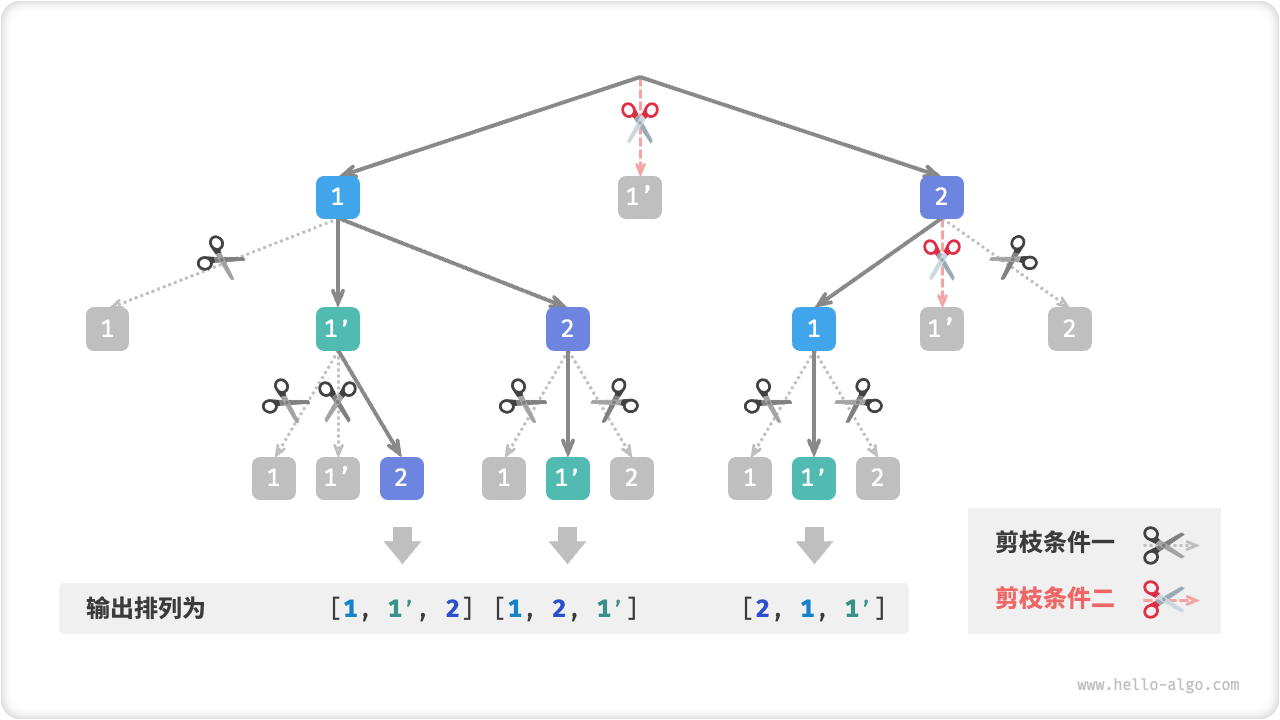
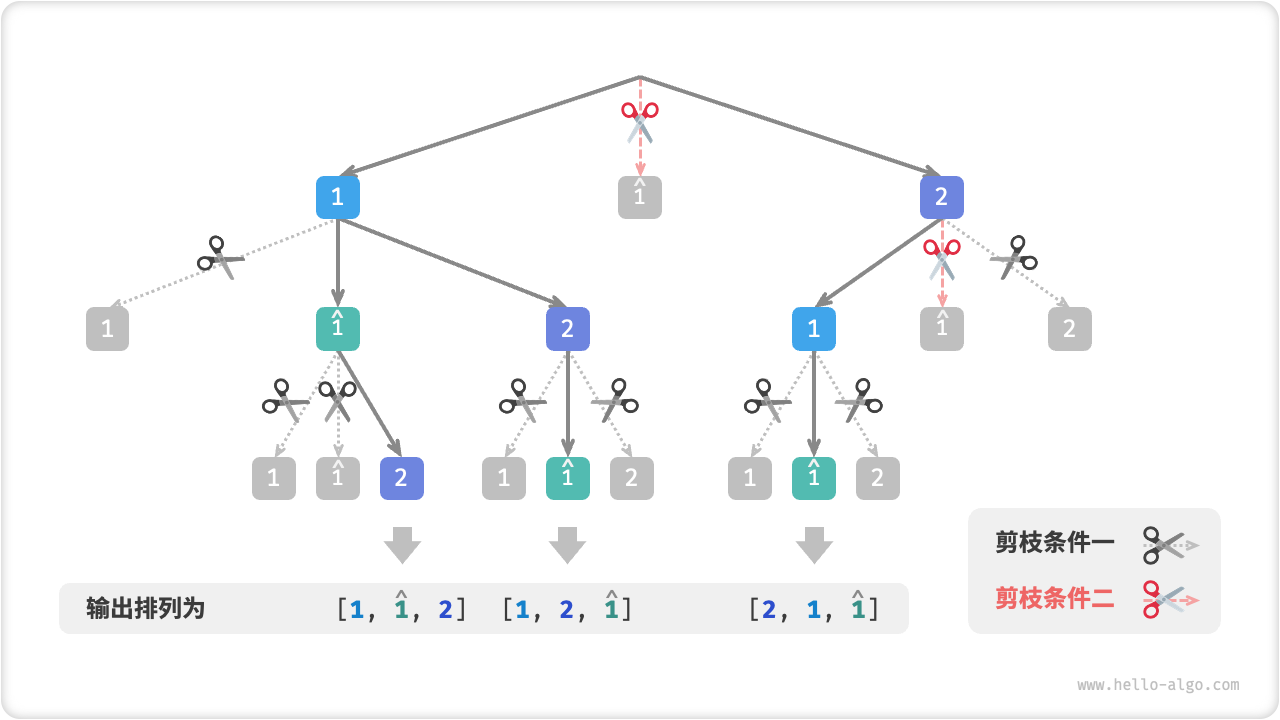
Prepare 1.0.0b3 release

diff --git a/docs/chapter_backtracking/backtracking_algorithm.md b/docs/chapter_backtracking/backtracking_algorithm.md
@@ -272,24 +272,232 @@
 
 设 `state` 为问题的当前状态，`choices` 表示当前状态下可以做出的选择，则可得到以下回溯算法的框架代码。
 
-```python
-def backtrack(state, choices, res):
-    """回溯算法框架"""
-    # 判断是否为解
-    if is_solution(state):
-        # 记录解
-        record_solution(state, res)
-        return
-    # 遍历所有选择
-    for choice in choices:
-        # 剪枝：判断选择是否合法
-        if is_valid(state, choice):
-            # 尝试：做出选择，更新状态
-            make_choice(state, choice)
-            backtrack(state, choices, res)
-            # 回退：撤销选择，恢复到之前的状态
-            undo_choice(state, choice)
-```
+=== "Java"
+
+    ```java title=""
+    /* 回溯算法框架 */
+    void backtrack(State state, List<Choice> choices, List<State> res) {
+        // 判断是否为解
+        if (isSolution(state)) {
+            // 记录解
+            recordSolution(state, res);
+            return;
+        }
+        // 遍历所有选择
+        for (Choice choice : choices) {
+            // 剪枝：判断选择是否合法
+            if (isValid(state, choice)) {
+                // 尝试：做出选择，更新状态
+                makeChoice(state, choice);
+                backtrack(state, choices, res);
+                // 回退：撤销选择，恢复到之前的状态
+                undoChoice(state, choice);
+            }
+        }
+    }
+    ```
+
+=== "C++"
+
+    ```cpp title=""
+    /* 回溯算法框架 */
+    void backtrack(State *state, vector<Choice *> &choices, vector<State *> &res) {
+        // 判断是否为解
+        if (isSolution(state)) {
+            // 记录解
+            recordSolution(state, res);
+            return;
+        }
+        // 遍历所有选择
+        for (Choice choice : choices) {
+            // 剪枝：判断选择是否合法
+            if (isValid(state, choice)) {
+                // 尝试：做出选择，更新状态
+                makeChoice(state, choice);
+                backtrack(state, choices, res);
+                // 回退：撤销选择，恢复到之前的状态
+                undoChoice(state, choice);
+            }
+        }
+    }
+    ```
+
+=== "Python"
+
+    ```python title=""
+    def backtrack(state: State, choices: list[choice], res: list[state]) -> None:
+        """回溯算法框架"""
+        # 判断是否为解
+        if is_solution(state):
+            # 记录解
+            record_solution(state, res)
+            return
+        # 遍历所有选择
+        for choice in choices:
+            # 剪枝：判断选择是否合法
+            if is_valid(state, choice):
+                # 尝试：做出选择，更新状态
+                make_choice(state, choice)
+                backtrack(state, choices, res)
+                # 回退：撤销选择，恢复到之前的状态
+                undo_choice(state, choice)
+    ```
+
+=== "Go"
+
+    ```go title=""
+    /* 回溯算法框架 */
+    func backtrack(state *State, choices []Choice, res *[]State) {
+        // 判断是否为解
+        if isSolution(state) {
+            // 记录解
+            recordSolution(state, res)
+            return
+        }
+        // 遍历所有选择
+        for _, choice := range choices {
+            // 剪枝：判断选择是否合法
+            if isValid(state, choice) {
+                // 尝试：做出选择，更新状态
+                makeChoice(state, choice)
+                backtrack(state, choices, res)
+                // 回退：撤销选择，恢复到之前的状态
+                undoChoice(state, choice)
+            }
+        }
+    }
+    ```
+
+=== "JavaScript"
+
+    ```javascript title=""
+    /* 回溯算法框架 */
+    function backtrack(state, choices, res) {
+        // 判断是否为解
+        if (isSolution(state)) {
+            // 记录解
+            recordSolution(state, res);
+            return;
+        }
+        // 遍历所有选择
+        for (let choice of choices) {
+            // 剪枝：判断选择是否合法
+            if (isValid(state, choice)) {
+                // 尝试：做出选择，更新状态
+                makeChoice(state, choice);
+                backtrack(state, choices, res);
+                // 回退：撤销选择，恢复到之前的状态
+                undoChoice(state, choice);
+            }
+        }
+    }
+    ```
+
+=== "TypeScript"
+
+    ```typescript title=""
+    /* 回溯算法框架 */
+    function backtrack(state: State, choices: Choice[], res: State[]): void {
+        // 判断是否为解
+        if (isSolution(state)) {
+            // 记录解
+            recordSolution(state, res);
+            return;
+        }
+        // 遍历所有选择
+        for (let choice of choices) {
+            // 剪枝：判断选择是否合法
+            if (isValid(state, choice)) {
+                // 尝试：做出选择，更新状态
+                makeChoice(state, choice);
+                backtrack(state, choices, res);
+                // 回退：撤销选择，恢复到之前的状态
+                undoChoice(state, choice);
+            }
+        }
+    }
+    ```
+
+=== "C"
+
+    ```c title=""
+    /* 回溯算法框架 */
+    void backtrack(State *state, Choice *choices, int numChoices, State *res, int numRes) {
+        // 判断是否为解
+        if (isSolution(state)) {
+            // 记录解
+            recordSolution(state, res, numRes);
+            return;
+        }
+        // 遍历所有选择
+        for (int i = 0; i < numChoices; i++) {
+            // 剪枝：判断选择是否合法
+            if (isValid(state, &choices[i])) {
+                // 尝试：做出选择，更新状态
+                makeChoice(state, &choices[i]);
+                backtrack(state, choices, numChoices, res, numRes);
+                // 回退：撤销选择，恢复到之前的状态
+                undoChoice(state, &choices[i]);
+            }
+        }
+    }
+    ```
+
+=== "C#"
+
+    ```csharp title=""
+    /* 回溯算法框架 */
+    void backtrack(State state, List<Choice> choices, List<State> res) {
+        // 判断是否为解
+        if (isSolution(state)) {
+            // 记录解
+            recordSolution(state, res);
+            return;
+        }
+        // 遍历所有选择
+        foreach (Choice choice in choices) {
+            // 剪枝：判断选择是否合法
+            if (isValid(state, choice)) {
+                // 尝试：做出选择，更新状态
+                makeChoice(state, choice);
+                backtrack(state, choices, res);
+                // 回退：撤销选择，恢复到之前的状态
+                undoChoice(state, choice);
+            }
+        }
+    }
+    ```
+
+=== "Swift"
+
+    ```swift title=""
+    /* 回溯算法框架 */
+    func backtrack(state: inout State, choices: [Choice], res: inout [State]) {
+        // 判断是否为解
+        if isSolution(state: state) {
+            // 记录解
+            recordSolution(state: state, res: &res)
+            return
+        }
+        // 遍历所有选择
+        for choice in choices {
+            // 剪枝：判断选择是否合法
+            if isValid(state: state, choice: choice) {
+                // 尝试：做出选择，更新状态
+                makeChoice(state: &state, choice: choice)
+                backtrack(state: &state, choices: choices, res: &res)
+                // 回退：撤销选择，恢复到之前的状态
+                undoChoice(state: &state, choice: choice)
+            }
+        }
+    }
+    ```
+
+=== "Zig"
+
+    ```zig title=""
+
+    ```
 
 下面，我们尝试基于此框架来解决例题三。在例题三中，状态 `state` 是节点遍历路径，选择 `choices` 是当前节点的左子节点和右子节点，结果 `res` 是路径列表，实现代码如下所示。
 
@@ -453,7 +661,7 @@ def backtrack(state, choices, res):
     [class]{}-[func]{backtrack}
     ```
 
-相较于基于前序遍历的实现代码，基于回溯算法框架的实现代码虽然显得啰嗦，但通用性更好，适用于各种不同的回溯算法问题。实际上，**所有回溯问题都可以在该框架下解决**。我们只需要根据问题特点来定义框架中的各个变量，实现各个方法即可。
+相较于基于前序遍历的实现代码，基于回溯算法框架的实现代码虽然显得啰嗦，但通用性更好。实际上，**所有回溯问题都可以在该框架下解决**。我们需要根据具体问题来定义 `state` 和 `choices` ，并实现框架中的各个方法。
 
 ## 典型例题
 

diff --git a/docs/chapter_backtracking/permutations_problem.md b/docs/chapter_backtracking/permutations_problem.md
@@ -6,11 +6,11 @@
 
 <div class="center-table" markdown>
 
-| 输入数组 | 所有排列                                                          |
-| :-------- | :--------------------------------------------------------------- |
-| [1]       | [1]                                                              |
-| [1, 2]    | [1, 2], [2, 1]                                                   |
-| [1, 2, 3] | [1, 2, 3], [1, 3, 2], [2, 1, 3], [2, 3, 1], [3, 1, 2], [3, 2, 1] |
+| 输入数组    | 所有排列                                                           |
+| :---------- | :----------------------------------------------------------------- |
+| $[1]$       | $[1]$                                                              |
+| $[1, 2]$    | $[1, 2], [2, 1]$                                                   |
+| $[1, 2, 3]$ | $[1, 2, 3], [1, 3, 2], [2, 1, 3], [2, 3, 1], [3, 1, 2], [3, 2, 1]$ |
 
 </div>
 
@@ -18,7 +18,7 @@
 
 !!! question "输入一个整数数组，数组中不包含重复元素，返回所有可能的排列。"
 
-**从回溯算法的角度看，我们可以把生成排列的过程想象成一系列选择的结果**。假设输入数组为 `[1, 2, 3]` ，如果我们先选择 `1` 、再选择 `3` 、最后选择 `2` ，则获得排列 `[1, 3, 2]` 。回退表示撤销一个选择，之后继续尝试其他选择。
+**从回溯算法的角度看，我们可以把生成排列的过程想象成一系列选择的结果**。假设输入数组为 $[1, 2, 3]$ ，如果我们先选择 $1$ 、再选择 $3$ 、最后选择 $2$ ，则获得排列 $[1, 3, 2]$ 。回退表示撤销一个选择，之后继续尝试其他选择。
 
 从回溯算法代码的角度看，候选集合 `choices` 是输入数组中的所有元素，状态 `state` 是直至目前已被选择的元素。注意，每个元素只允许被选择一次，**因此在遍历选择时，应当排除已经选择过的元素**。
 
@@ -118,13 +118,13 @@
 
 !!! question "输入一个整数数组，**数组中可能包含重复元素**，返回所有不重复的排列。"
 
-假设输入数组为 `[1, 1, 2]` 。为了方便区分两个重复的元素 `1` ，接下来我们将第二个元素记为 `1'` 。如下图所示，上述方法生成的排列有一半都是重复的。
+假设输入数组为 $[1, 1, 2]$ 。为了方便区分两个重复的元素 $1$ ，接下来我们将第二个元素记为 $\hat{1}$ 。如下图所示，上述方法生成的排列有一半都是重复的。
 
 ![重复排列](permutations_problem.assets/permutations_ii.png)
 
 那么，如何去除重复的排列呢？最直接地，我们可以借助一个哈希表，直接对排列结果进行去重。然而，这样做不够优雅，因为生成重复排列的搜索分支是没有必要的，应当被提前识别并剪枝，这样可以提升算法效率。
 
-观察发现，在第一轮中，选择 `1` 或选择 `1'` 是等价的，因为在这两个选择之下生成的所有排列都是重复的。因此，我们应该把 `1'` 剪枝掉。同理，在第一轮选择 `2` 后，第二轮选择中的 `1` 和 `1'` 也会产生重复分支，因此也需要将第二轮的 `1'` 剪枝。
+观察发现，在第一轮中，选择 $1$ 或选择 $\hat{1}$ 是等价的，因为在这两个选择之下生成的所有排列都是重复的。因此，我们应该把 $\hat{1}$ 剪枝掉。同理，在第一轮选择 $2$ 后，第二轮选择中的 $1$ 和 $\hat{1}$ 也会产生重复分支，因此也需要将第二轮的 $\hat{1}$ 剪枝。
 
 ![重复排列剪枝](permutations_problem.assets/permutations_ii_pruning.png)
 

diff --git a/README.md b/README.md
@@ -24,7 +24,7 @@
     阅读网页版
     </a>
   &nbsp; | &nbsp;
-    <a href="https://github.com/krahets/hello-algo/releases/tag/1.0.0b2">
+    <a href="https://github.com/krahets/hello-algo/releases">
     下载 PDF 版
     </a>
 </p>
